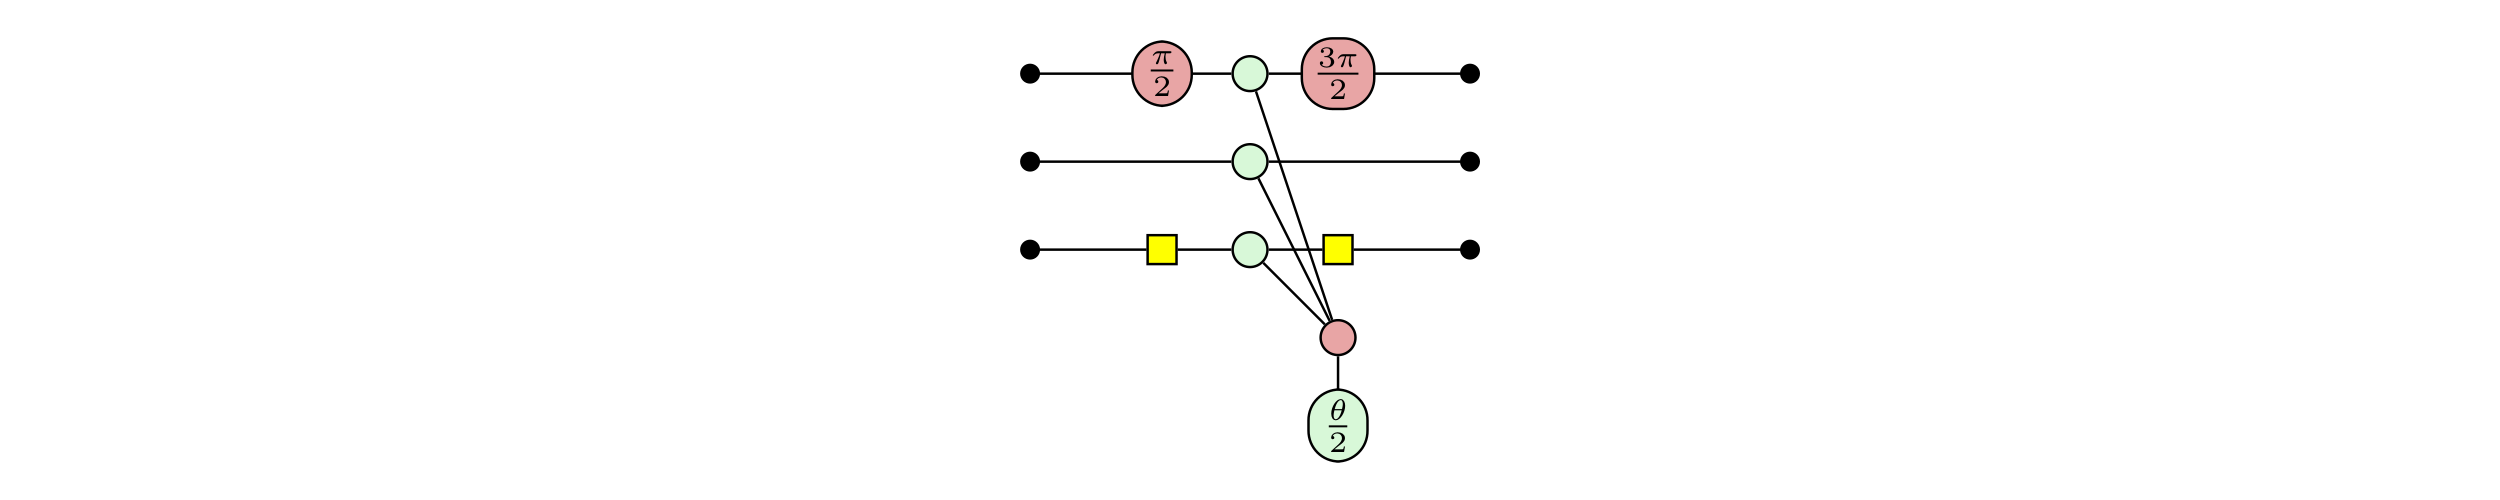
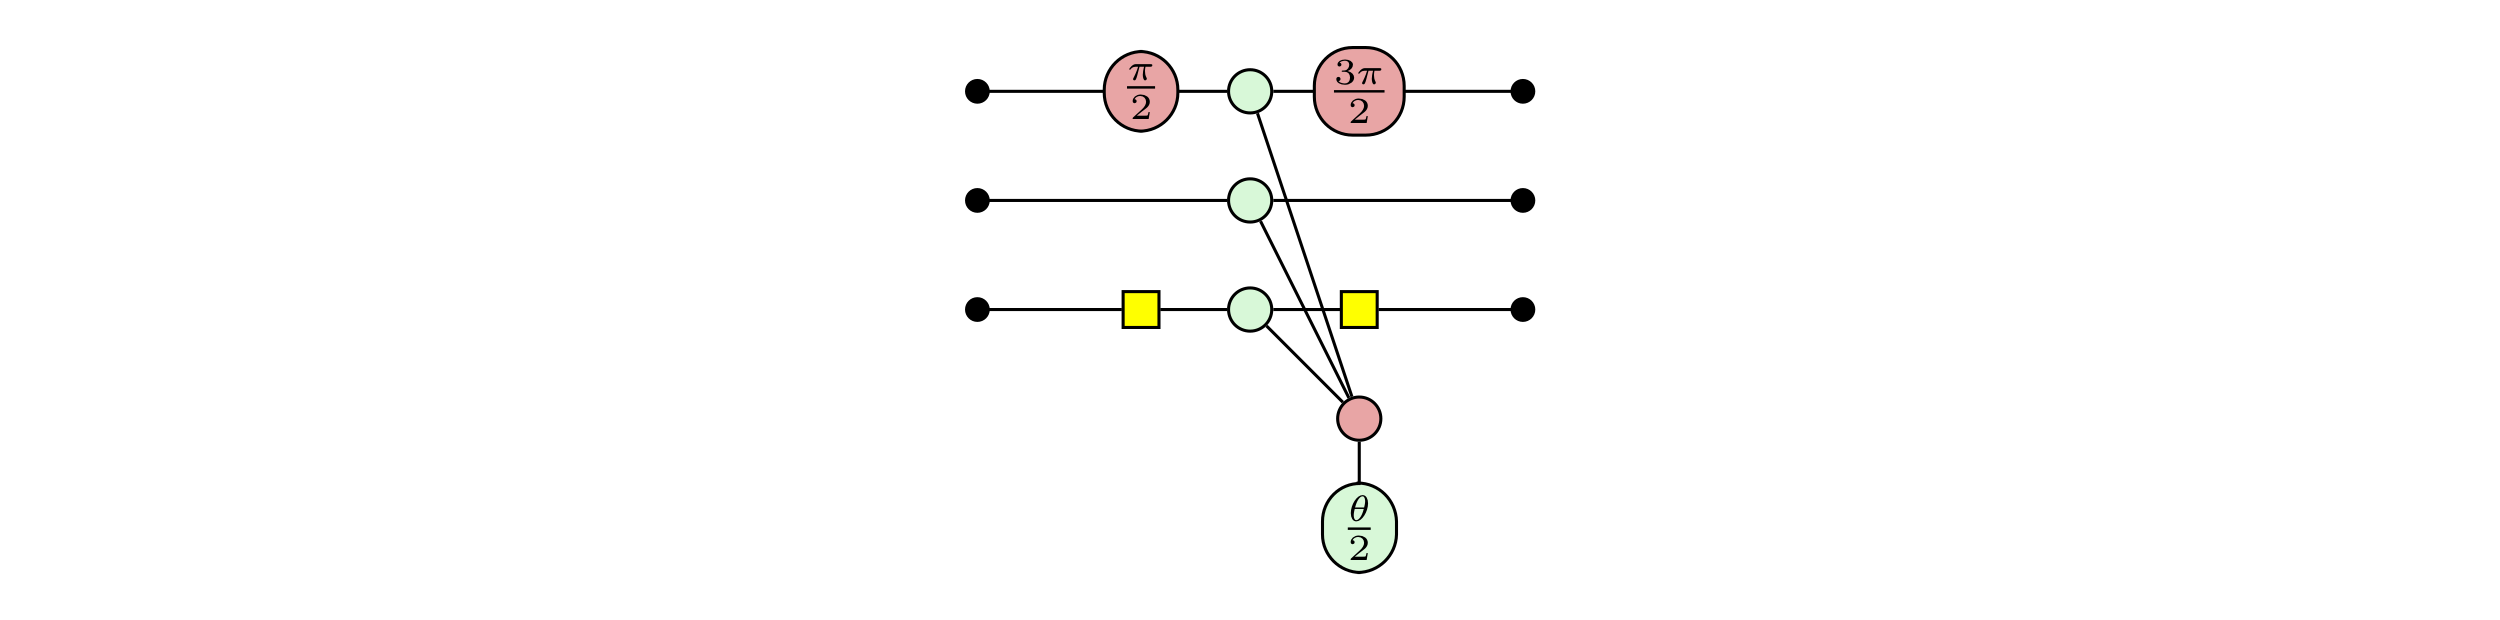
README stuff

diff --git a/README.md b/README.md
@@ -38,7 +38,7 @@ By default gadgets are represented in the following more compact form.
 gadget = Gadget('YZX', phase=1/2, var='theta')
 gadget.graph.draw()
 ```
-![](figures/see.png)
+![](figures/readme2.png)
 
 ```python
 from zxfermion import GadgetCircuit
